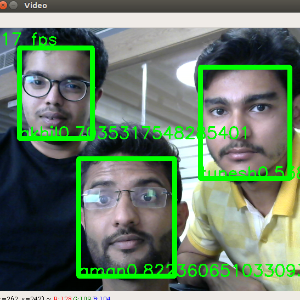
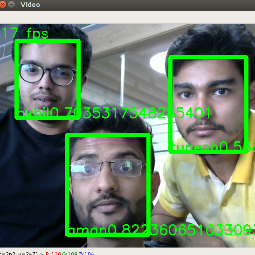
Added Face Gen project

diff --git a/index.html b/index.html
@@ -150,15 +150,15 @@
 
                 <div class="project shadow-large">
                     <div class="project-image">
-                        <img src="images/project.jpg" />
+                        <img src="images/facegen.png" />
                     </div>
                     <!-- End .project-image -->
                     <div class="project-info">
-                        <h3>Project Name Here</h3>
+                        <h3>Face generation</h3>
                         <p>
-                            Lorem ipsum dolor sit amet, consectetur adipiscing elit. Curabitur in iaculis ex. Etiam volutpat laoreet urna. Morbi ut tortor nec nulla commodo malesuada sit amet vel lacus. Fusce eget efficitur libero. Morbi dapibus porta quam laoreet placerat.
+                            In this project, I used Celeb-A dataset to generate never before seen faces using Generative Adversarial Network (GANs).
                         </p>
-                        <a href="#">View Project</a>
+                        <a href="https://github.com/Amanpradhan/Face-Generation">View Project</a>
                     </div>
                     <!-- End .project-info -->
                 </div>

diff --git a/images/resize.py b/images/resize.py
@@ -1,5 +1,5 @@
 import cv2
 
 im = cv2.imread('facerec1.png')
-im1 = cv2.resize(im, (300, 300))
+im1 = cv2.resize(im, (255, 255))
 cv2.imwrite('recface.png', im1)
